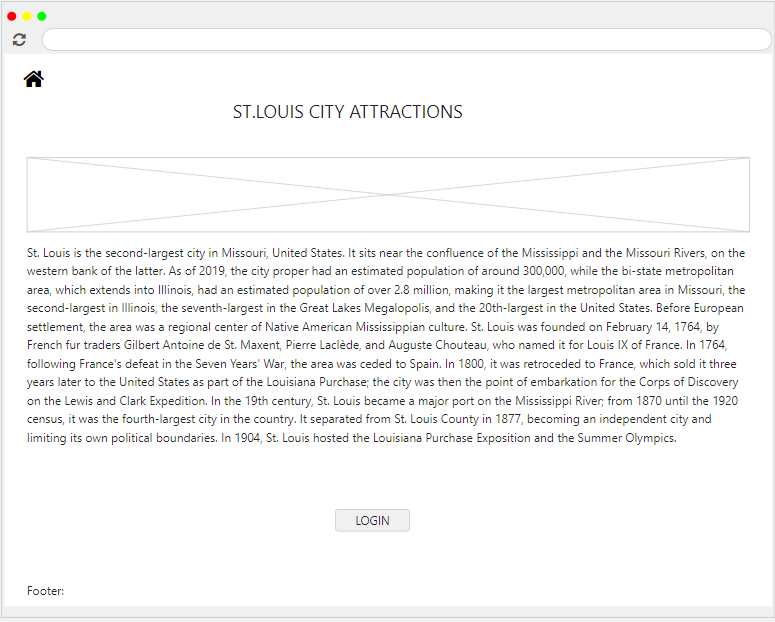
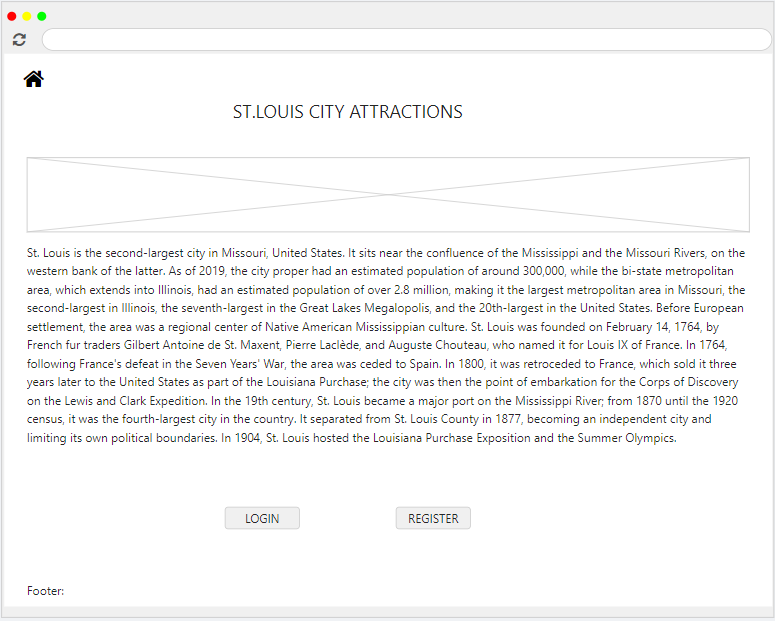
Update README.md

diff --git a/P3-Project_Planning/README.md b/P3-Project_Planning/README.md
@@ -9,9 +9,12 @@ For this assignment, you'll create some initial plans for your project.
 ### Wireframes
 
 Include at least 3 wireframes here, adding images or files to your repository as necessary. Format them as a bulleted/unordered list with links to the files.
-* Landing page - https://mydraft.cc/c4a67t39h01mca5of8b0
+* Landing page - https://mydraft.cc/c4be2l39h01mca5of9h0
 ![img.png](img.png)
-  
+
+* Registration page - https://mydraft.cc/c4a2n3b9h01mca5of830
+  ![img_4.png](img_4.png)
+
 * Log in page - https://mydraft.cc/c4a67ur9h01mca5of8c0
 ![img_1.png](img_1.png)
   
